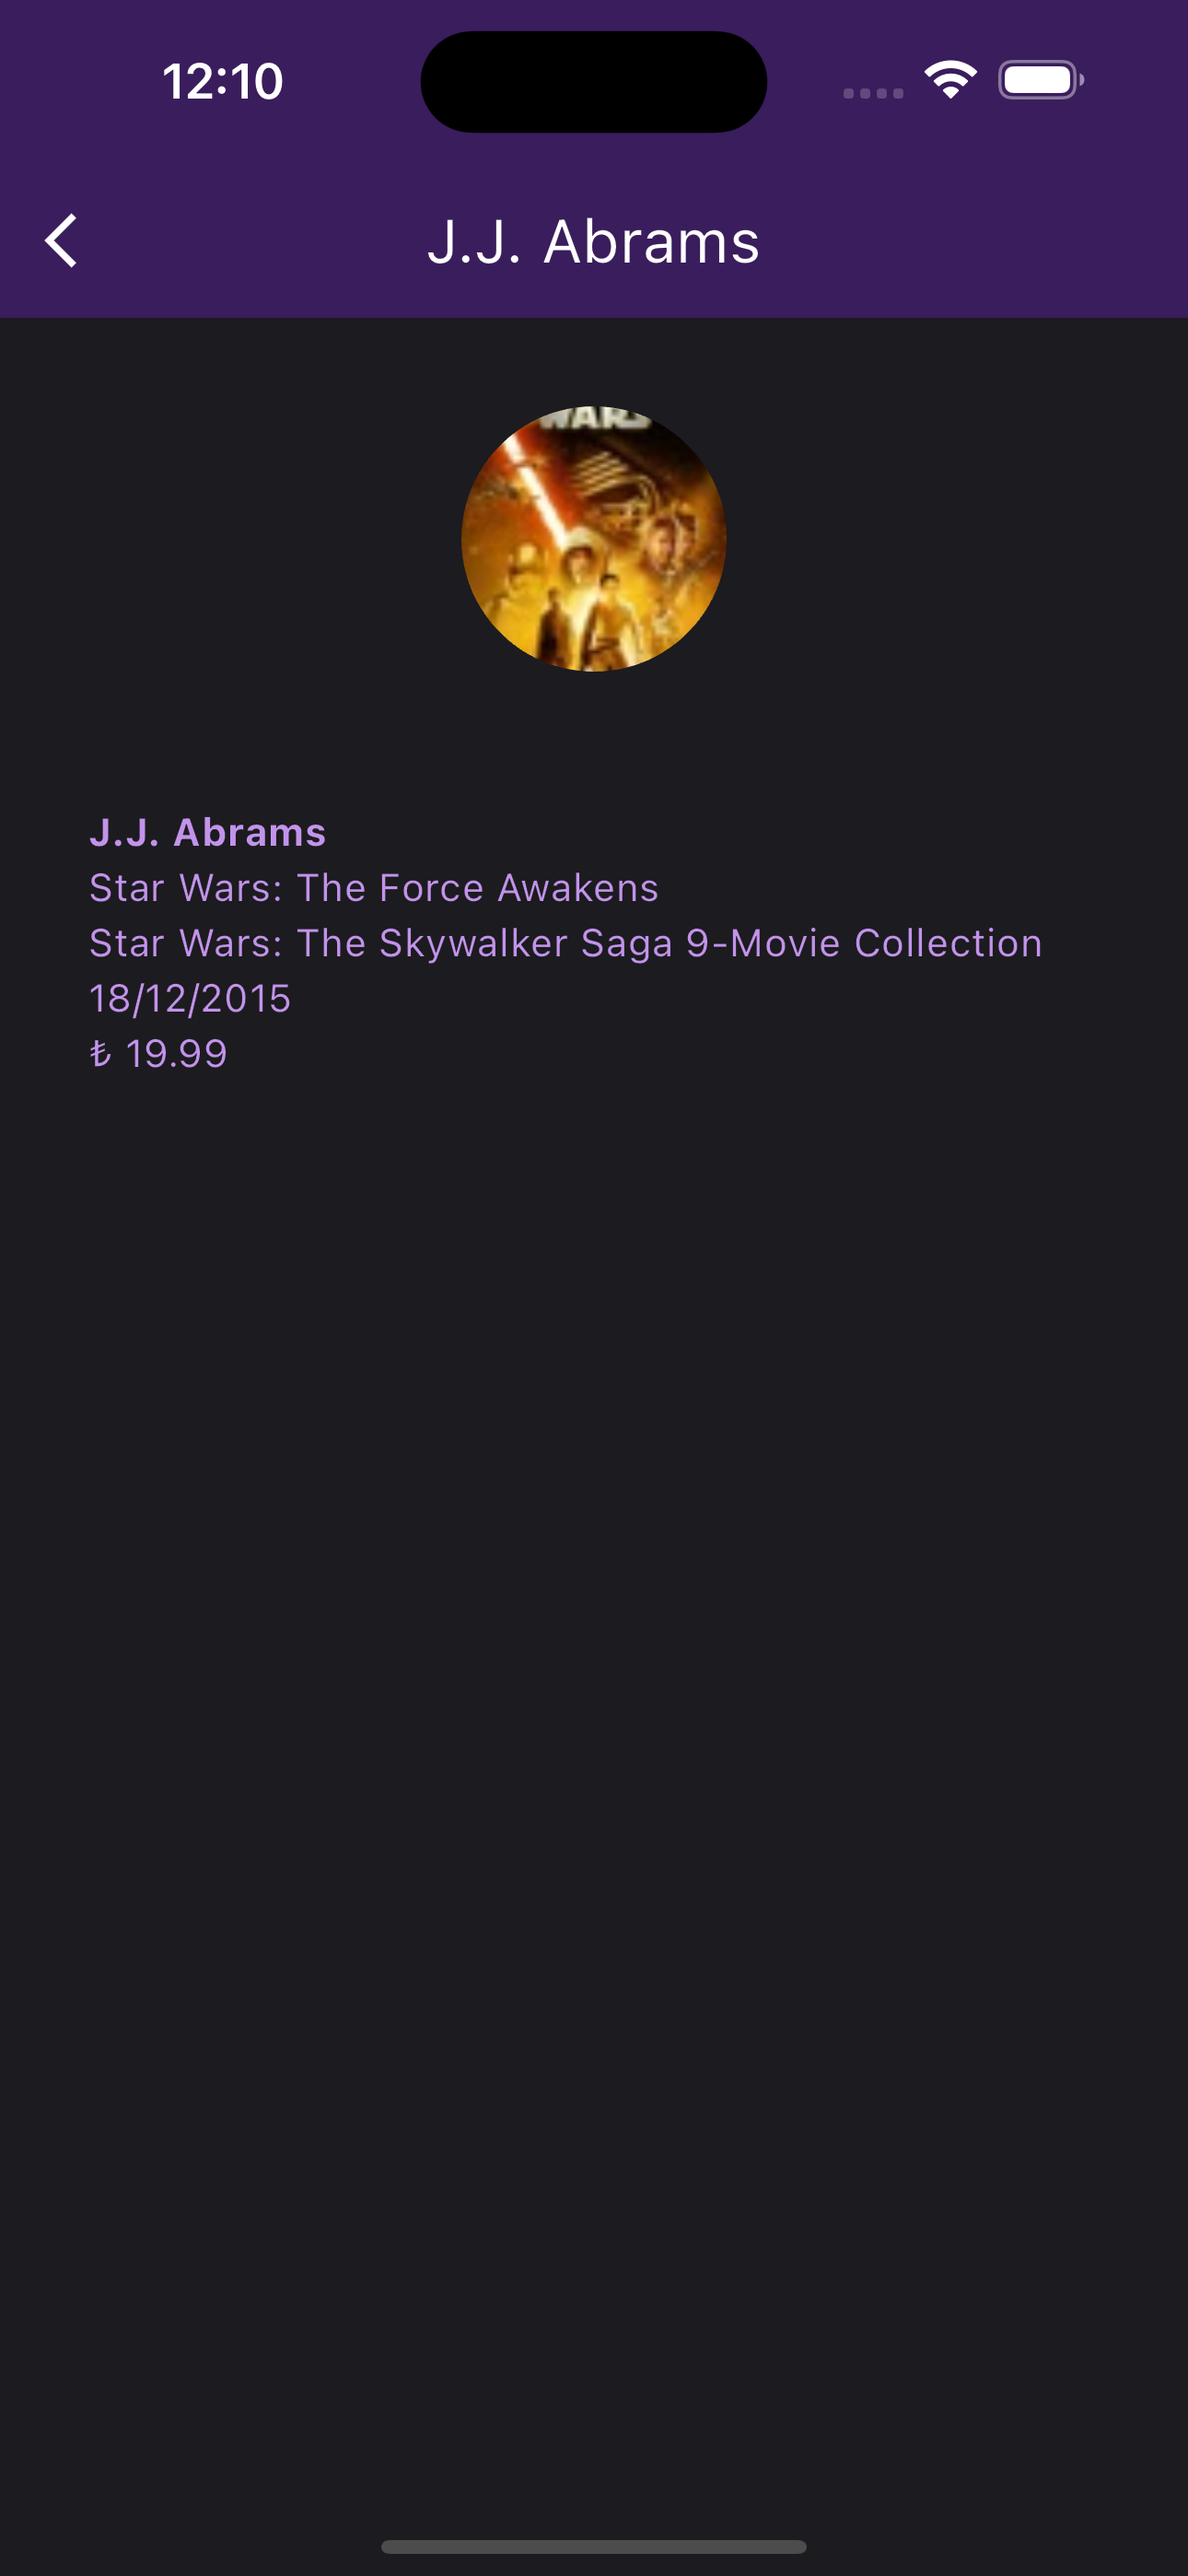
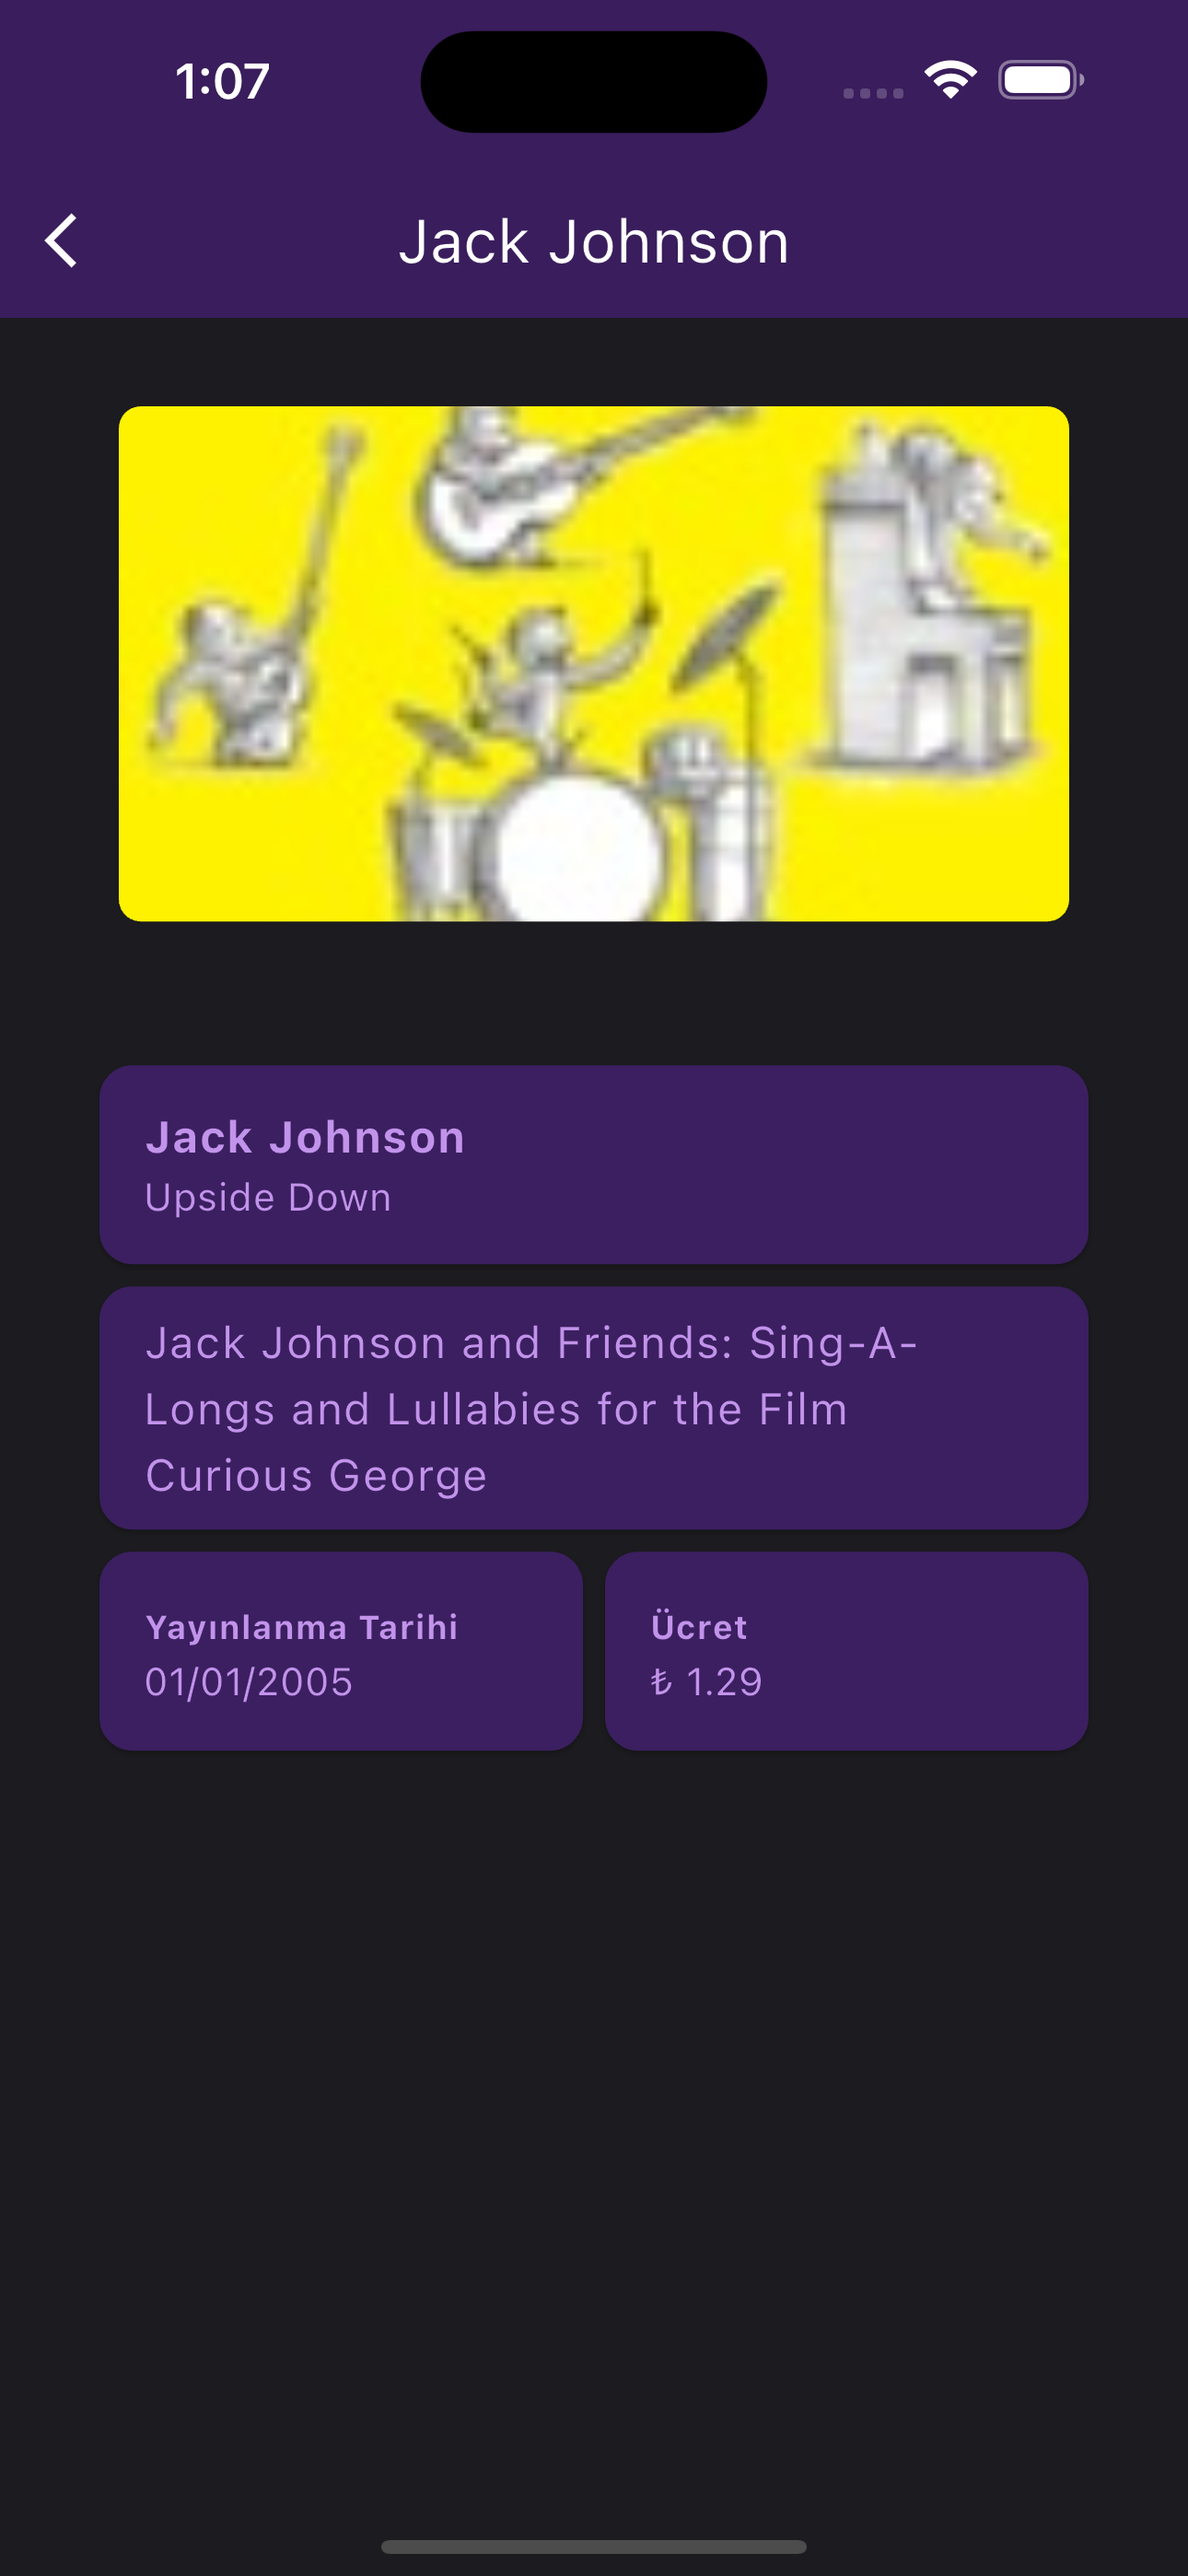
some UI improvements

diff --git a/lib/feature/song_detail/song_detail_view.dart b/lib/feature/song_detail/song_detail_view.dart
@@ -1,7 +1,9 @@
+import 'package:easy_localization/easy_localization.dart';
 import 'package:flutter/material.dart';
 import 'package:song/core/constants/layout_constants.dart';
 import 'package:song/core/extension/context_extension.dart';
 import 'package:song/product/extension/date_time_extension.dart';
+import 'package:song/product/lang/locale_keys.g.dart';
 import 'package:song/product/models/song/song.dart';
 
 class SongDetailView extends StatelessWidget {
@@ -11,6 +13,7 @@ class SongDetailView extends StatelessWidget {
   @override
   Widget build(BuildContext context) {
     return Scaffold(
+      // backgroundColor: context.themeData.primaryColor,
       appBar: AppBar(
         backgroundColor: context.themeData.cardTheme.color,
         title: Text(song.artistName!, style: const TextStyle(color: Colors.white)),
@@ -23,9 +26,13 @@ class SongDetailView extends StatelessWidget {
           children: [
             Align(
               alignment: Alignment.center,
-              child: CircleAvatar(
-                backgroundImage: NetworkImage(song.artworkUrl100!),
-                radius: LayoutConstants.maxSize,
+              child: Container(
+                height: context.dynamicHeight(0.2),
+                width: context.dynamicWidth(0.8),
+                decoration: BoxDecoration(
+                  borderRadius: BorderRadius.circular(LayoutConstants.defaultRadius),
+                  image: DecorationImage(image: NetworkImage(song.artworkUrl100!), fit: BoxFit.cover),
+                ),
               ),
             ),
             LayoutConstants.highEmptyHeight,
@@ -33,14 +40,54 @@ class SongDetailView extends StatelessWidget {
             Column(
               crossAxisAlignment: CrossAxisAlignment.start,
               children: [
-                Text(
-                  song.artistName ?? '',
-                  style: TextStyle(color: context.themeData.primaryColor, fontWeight: FontWeight.bold),
+                Card(
+                  child: ListTile(
+                    title: Text(
+                      song.artistName ?? '',
+                      style: TextStyle(color: context.themeData.primaryColor, fontWeight: FontWeight.bold),
+                    ),
+                    subtitle: Text(song.trackName ?? '', style: TextStyle(color: context.themeData.primaryColor)),
+                  ),
                 ),
-                Text(song.trackName ?? '', style: TextStyle(color: context.themeData.primaryColor)),
-                Text(song.collectionName ?? '', style: TextStyle(color: context.themeData.primaryColor)),
-                Text(song.releaseDate!.onlyDate, style: TextStyle(color: context.themeData.primaryColor)),
-                Text('₺ ${song.trackPrice}', style: TextStyle(color: context.themeData.primaryColor)),
+                Card(
+                  child: ListTile(
+                    title: Text(song.collectionName ?? '', style: TextStyle(color: context.themeData.primaryColor)),
+                  ),
+                ),
+                Row(
+                  children: [
+                    Expanded(
+                      child: Card(
+                        child: ListTile(
+                          title: Text(
+                            LocaleKeys.card_releaseDate.tr(),
+                            style: TextStyle(
+                                fontSize: 12, color: context.themeData.primaryColor, fontWeight: FontWeight.bold),
+                          ),
+                          subtitle: Text(
+                            song.releaseDate!.onlyDate,
+                            style: TextStyle(color: context.themeData.primaryColor),
+                          ),
+                        ),
+                      ),
+                    ),
+                    Expanded(
+                      child: Card(
+                        child: ListTile(
+                          title: Text(
+                            LocaleKeys.card_price.tr(),
+                            style: TextStyle(
+                                fontSize: 12, color: context.themeData.primaryColor, fontWeight: FontWeight.bold),
+                          ),
+                          subtitle: Text(
+                            '₺ ${song.trackPrice}',
+                            style: TextStyle(color: context.themeData.primaryColor),
+                          ),
+                        ),
+                      ),
+                    ),
+                  ],
+                ),
               ],
             )
           ],

diff --git a/lib/feature/home/sub/songs_listable/songs_listable_view.dart b/lib/feature/home/sub/songs_listable/songs_listable_view.dart
@@ -1,9 +1,11 @@
+import 'package:easy_localization/easy_localization.dart';
 import 'package:flutter/material.dart';
 import 'package:provider/provider.dart';
 import 'package:song/core/extension/context_extension.dart';
 import 'package:song/product/extension/init_widget_extension.dart';
 import 'package:song/product/models/song/song.dart';
 
+import '../../../../product/lang/locale_keys.g.dart';
 import '../../../../product/navigate/navigation_enums.dart';
 import '../../../../product/provider/song_provider.dart';
 import '../../../../product/widget/button/card_direction_button.dart';
@@ -16,7 +18,10 @@ class SongsListableView extends StatelessWidget {
     return Scaffold(
       body: ListView(
         children: [
-          Text('${context.watch<SongProvider>().songList.length} adet sonuç bulundu', textAlign: TextAlign.center,),
+          Text(
+            LocaleKeys.card_resultsFound.tr(namedArgs: {'count': (context.watch<SongProvider>().songList.length).toString() }),
+            textAlign: TextAlign.center,
+          ),
           ...context.watch<SongProvider>().songList.map((e) => _songCard(context, e)).toList(),
         ],
       ),

diff --git a/lib/product/manager/network_manager.dart b/lib/product/manager/network_manager.dart
@@ -42,7 +42,7 @@ class NetworkManager {
 
       var response = await _dio.request(
         path,
-        // data: body,
+        data: body,
         queryParameters: queryParameters,
         options: Options(
           contentType: isFile ? 'multipart/form-data' : 'application/json',
@@ -71,7 +71,6 @@ class NetworkManager {
         );
       }
     } on DioError catch (dioError) {
-      print('asd');
       return _showError<T>(
         '$path ${requestType.name}',
         'Error: ${dioError.error} | Status Message: ${dioError.message}',

diff --git a/lib/product/lang/locale_keys.g.dart b/lib/product/lang/locale_keys.g.dart
@@ -8,5 +8,9 @@ abstract class  LocaleKeys {
   static const button = 'button';
   static const dialog_removeDone = 'dialog.removeDone';
   static const dialog = 'dialog';
+  static const card_releaseDate = 'card.releaseDate';
+  static const card_price = 'card.price';
+  static const card_resultsFound = 'card.resultsFound';
+  static const card = 'card';
 
 }

diff --git a/README.md b/README.md
@@ -30,3 +30,6 @@ Songs             |  Songs List
 Songs Grid            |  Songs Page
 :-------------------------:|:-------------------------:
 ![alt text](/screenshots/songs_grid.png "Song Grid") | ![alt text](/screenshots/songs_page.png "Song Page")
+
+### Song Detail
+![alt text](/screenshots/song_detail.png "Song Detail")
